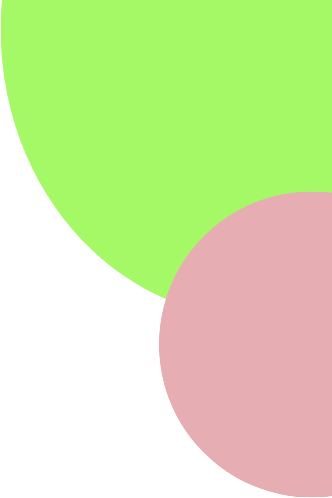
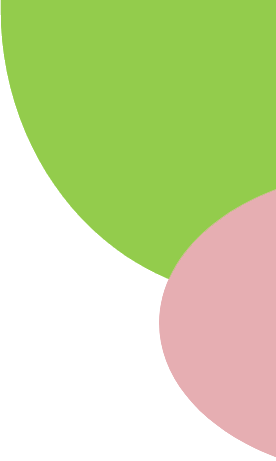
correcao de cores

diff --git a/src/routes/pages/Usuario/Home/index.jsx b/src/routes/pages/Usuario/Home/index.jsx
@@ -50,7 +50,7 @@ export default function UsuarioHome({ navigation }) {
         </View>
         {/* Elementos */}
         <View style={styles.background}>
-          <Shadow distance={10} startColor={'#000'} sides={'top'} stretch={true} style={{borderTopLeftRadius:40, borderTopRightRadius:40,}}>
+          <Shadow distance={10} startColor={'#CCCCCC'} sides={'top'} stretch={true} style={{borderTopLeftRadius:40, borderTopRightRadius:40,}}>
           <View style={styles.buttonsArea}>
             <View style={styles.buttons}>
               <View style={{ justifyContent: 'center', alignItems: 'center', height: '100%',}}>
